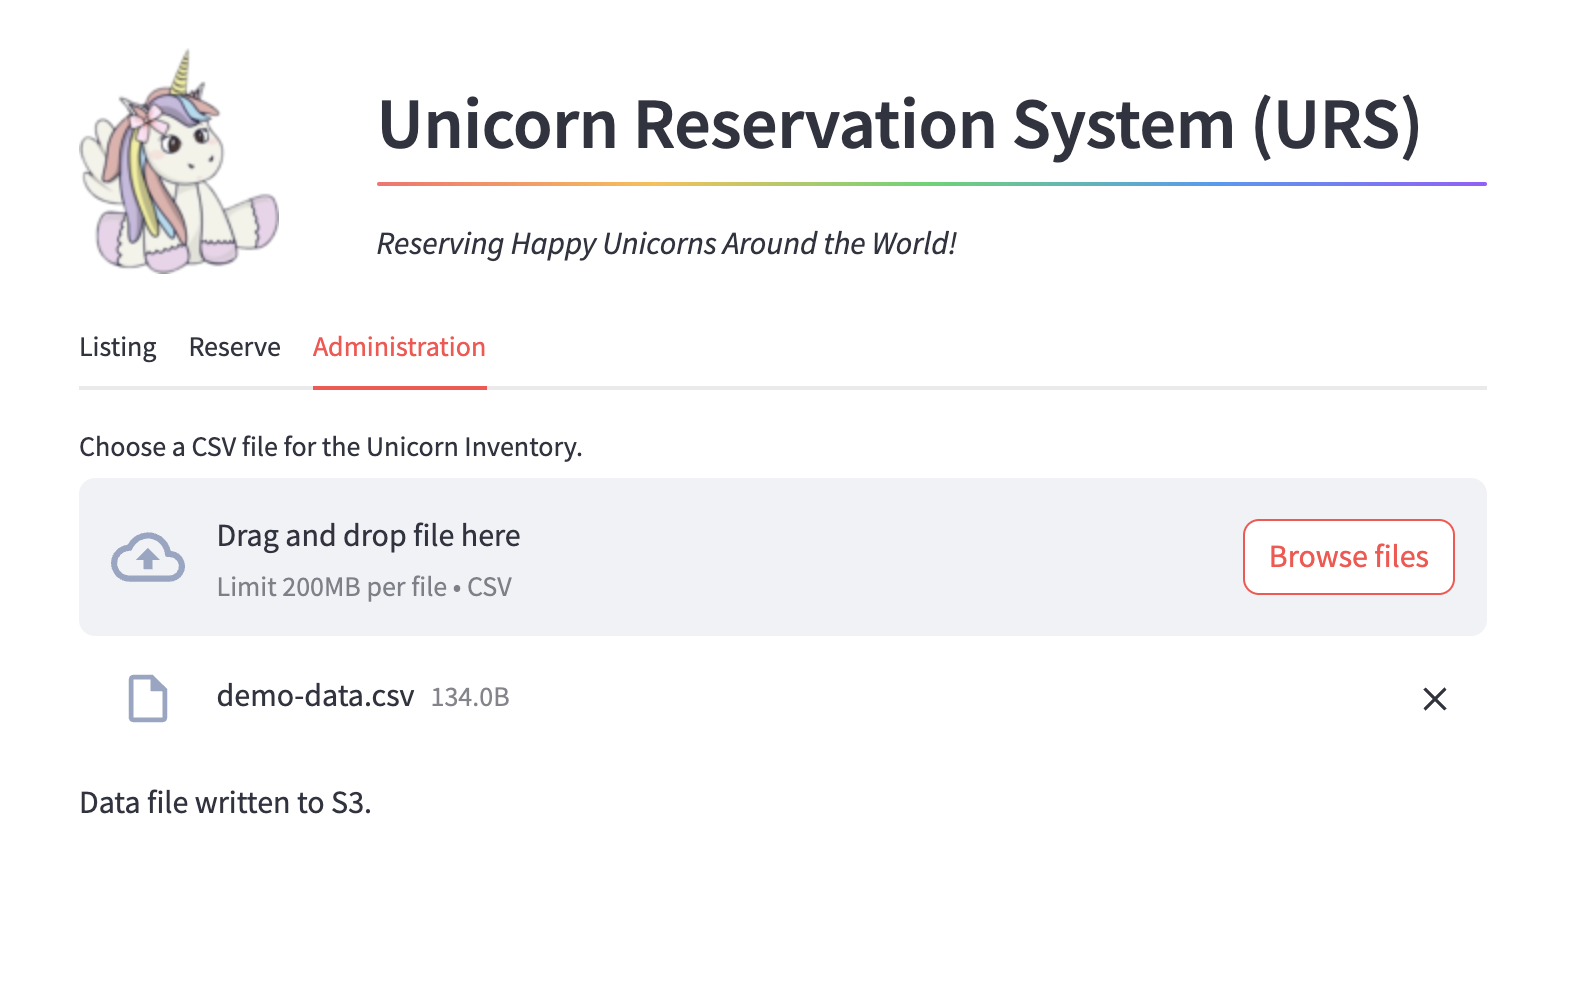
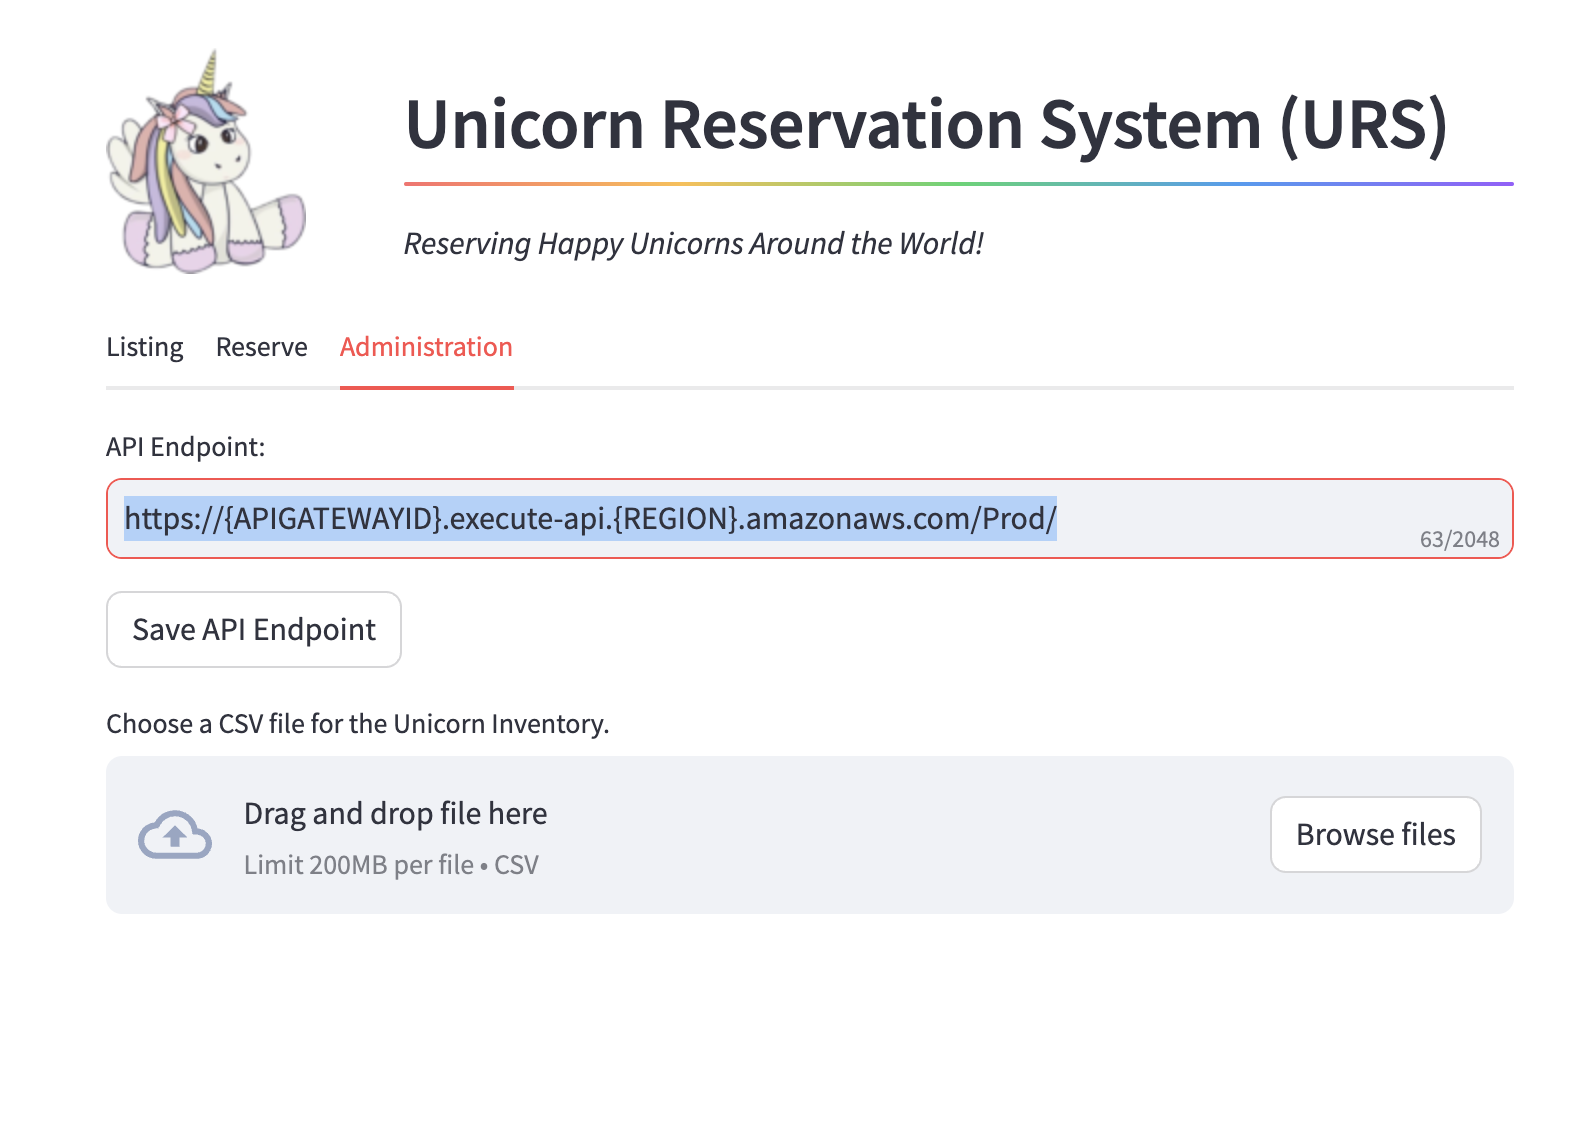
Added auto handling of locations, easier UI config.

diff --git a/python-test-samples/serverless-test-workshop/pre-test-implementation/demo-app/urs-ui.py b/python-test-samples/serverless-test-workshop/pre-test-implementation/demo-app/urs-ui.py
@@ -45,13 +45,18 @@ def get_inventory(api_endpoint_url: str, fetch_loc: str, available_only = False)
     :param: available_only - boolean, if true, returns only available unicorns
     :return: List of unicorn (dictionaries)
     """
-    inventory_url = f"{api_endpoint_url}/list/{fetch_loc}"
-    if available_only:
-        inventory_url = inventory_url + "?available=True"
+    try:
+        inventory_url = f"{api_endpoint_url}/list/{fetch_loc}"
+        if available_only:
+            inventory_url = inventory_url + "?available=True"
 
-    # TODO: Pagination
-    response = requests.get(inventory_url, timeout=120)
-    return response.json()["unicorn_list"]
+        # TODO: Pagination
+        response = requests.get(inventory_url, timeout=120)
+        return response.json()["unicorn_list"]
+    except Exception as err:
+        print(err)
+        st.write("No Unicorns Found.")
+        return []
 
 def reserve_unicorn(api_endpoint_url: str, unicorn_name: str, unicorn_reserve_for : str) -> bool:
     """
@@ -66,11 +71,30 @@ def reserve_unicorn(api_endpoint_url: str, unicorn_name: str, unicorn_reserve_fo
     response = requests.post(inventory_url, timeout=120, data=post_payload)
     return response.ok
 
-# Retrieve Application Settings
-with open("config.json","r",encoding="utf-8") as f:
-    app_config = json.load(f)
-api_endpoint = app_config["api_endpoint"]
-location_list = app_config["location_list"]
+def get_locations(api_endpoint_url: str) -> list:
+    """
+    Get the list of unicorn locations
+    :param: api_endpoint_url - the endpoint of the API Gateway
+    :return: Array of locations
+    """
+    try:    
+        location_list_url = f"{api_endpoint_url}/locations"
+        response = requests.get(location_list_url, timeout=120)
+        return response.json()["locations"]
+    except Exception as err:
+        print(err)
+        return []
+
+# Retrieve Application Endpoint
+if os.path.isfile("config.json"):
+    with open("config.json","r",encoding="utf-8") as f:
+        app_config = json.load(f)
+    api_endpoint = app_config["api_endpoint"]
+
+else:
+    api_endpoint = "https://{APIGATEWAYID}.execute-api.{REGION}.amazonaws.com/Prod/"
+
+location_list = get_locations(api_endpoint)
 
 # Generate the Application Title
 col1, col2 = st.columns([1, 4])
@@ -104,6 +128,17 @@ with reserve_tab:
 
 # Administration Tab
 with admin_tab:
+    # Api Gateway Setup
+    new_api_endpoint = st.text_input("API Endpoint:", 
+                  value=api_endpoint, 
+                  max_chars=2048
+    )
+    if st.button("Save API Endpoint"):
+        endpoint_json = {"api_endpoint": new_api_endpoint}
+        with open("config.json","w",encoding="utf-8") as out_file:
+            json.dump(endpoint_json, out_file)
+            st.write("Configuration saved, refresh browser to take effect.")
+    
     # File picker for uploading to the unicorn inventory
     uploaded_file = st.file_uploader("Choose a CSV file for the Unicorn Inventory.", type=["csv"])
     if uploaded_file is not None:

diff --git a/python-test-samples/serverless-test-workshop/pre-test-implementation/src/GetLocations/app.py b/python-test-samples/serverless-test-workshop/pre-test-implementation/src/GetLocations/app.py
@@ -2,25 +2,21 @@
 # Copyright Amazon.com, Inc. or its affiliates. All Rights Reserved.
 # SPDX-License-Identifier: MIT-0
 #
-# Lambda Function to reserve a Unicorn
+# Lambda Function to retrieve the list of Locations
 # The DynamoDB Table used is passed as an environment variable "DYNAMODB_TABLE_NAME"
 # Logic:
-# Given unicorn (Unicorn Name) and (reserved_for) in the body payload
-# Verify the Unicorn is available, if not return error status
-# Update status to RESERVED
+# Retrieve and return the DynamoDB element "LOCATION#LIST"
 """
 
 from os import environ
-import urllib
+import json
 import boto3
-
 
 from aws_xray_sdk.core import patch_all
 
 from aws_lambda_powertools.utilities.data_classes import APIGatewayProxyEvent
 from aws_lambda_powertools.utilities.typing import LambdaContext
 from aws_lambda_powertools.utilities.validation import validator
-
 
 from schemas import OUTPUT_SCHEMA
 patch_all()
@@ -38,35 +34,16 @@ def lambda_handler(event: APIGatewayProxyEvent, context: LambdaContext) -> dict:
     dynamodb_resource = boto3.resource("dynamodb")
     dynamodb_table = dynamodb_resource.Table(dynamodb_table_name)
 
-    post_payload = {}
-    for item in event["body"].split("&"):
-        post_payload[item.split("=")[0]] = urllib.parse.unquote_plus(item.split("=")[1])
-
-    unicorn_to_checkout = post_payload["unicorn"]
-    checkout_to_name = post_payload["reserved_for"]
-
    # Creating the DynamoDB Table Resource
-    response = dynamodb_table.get_item( Key={"PK": unicorn_to_checkout})
-    if "Item" not in response or response["Item"]["STATUS"] != "AVAILABLE":
+    response = dynamodb_table.get_item( Key={"PK": "LOCATION#LIST"})
+    if "Item" not in response:
         status_code = 400
-        body_payload = f"{unicorn_to_checkout} Not Available"
+        body_payload = {"locations":[]}
     else:
-        response = dynamodb_table.update_item(
-                Key={"PK": unicorn_to_checkout},
-                UpdateExpression="SET #s = :val1, #r = :val2",
-                ExpressionAttributeValues={
-                    ":val1": "RESERVED",
-                    ":val2": checkout_to_name
-                },
-                ExpressionAttributeNames={
-                    "#s":"STATUS",
-                    "#r":"RES_BY"
-                }
-            )
         status_code = 200
-        body_payload = "OK"
+        body_payload = {"locations": response["Item"]["LOCATIONS"]}
         
     return {
         "statusCode": status_code,
-        "body": body_payload
+        "body": json.dumps(body_payload)
     }

diff --git a/python-test-samples/serverless-test-workshop/pre-test-implementation/src/InventoryProcessing/app.py b/python-test-samples/serverless-test-workshop/pre-test-implementation/src/InventoryProcessing/app.py
@@ -53,6 +53,7 @@ def lambda_handler(event: S3Event, context: LambdaContext) -> dict:
     data = s3_client.get_object(Bucket=bucket, Key=key)
     contents = data['Body'].read().decode()
     count = 0
+    location_set = set()
     for entry in contents.split("\n"):
         print(f"Add {entry}")
         if "Unicorn" not in entry:
@@ -66,7 +67,19 @@ def lambda_handler(event: S3Event, context: LambdaContext) -> dict:
                 }
             )
             status_code = response['ResponseMetadata']['HTTPStatusCode']
+            location_set.add(unicorn_location)
             count += 1
+    
+    # Post a list of locations for the pick list
+    location_list = [x for x in sorted(location_set)]
+    response = dynamodb_table.put_item(
+        Item={
+            'PK': "LOCATION#LIST",
+            'LOCATIONS': location_list
+        }
+    )
+    status_code = response['ResponseMetadata']['HTTPStatusCode']
+
 
     return {
         "statusCode": status_code,

diff --git a/python-test-samples/serverless-test-workshop/pre-test-implementation/src/GetLocations/schemas.py b/python-test-samples/serverless-test-workshop/pre-test-implementation/src/GetLocations/schemas.py
@@ -1,0 +1,27 @@
+# Copyright Amazon.com, Inc. or its affiliates. All Rights Reserved.
+# SPDX-License-Identifier: MIT-0
+
+OUTPUT_SCHEMA = {
+    "$schema": "http://json-schema.org/draft-07/schema",
+    "$id": "http://example.com/example.json",
+    "type": "object",
+    "title": "Sample Output schema",
+    "description": "The root schema comprises the entire JSON document of the Return Schema.",
+    "examples": [{"statusCode": 200, "body": "OK"}],
+    "required": ["statusCode", "body"],
+    "properties": {
+        "statusCode": {
+            "$id": "#/properties/statusCode",
+            "type": "integer",
+            "title": "HTTP Status Code",
+            "examples": [200,401,500]
+        },
+        "body": {
+            "$id": "#/properties/body",
+            "type": "string",
+            "title": "The response message",
+            "examples": ["OK","Error"],
+            "maxLength": 256,
+        }
+    },
+}

diff --git a/python-test-samples/serverless-test-workshop/pre-test-implementation/README.md b/python-test-samples/serverless-test-workshop/pre-test-implementation/README.md
@@ -35,11 +35,11 @@ The architecture is as follows:
 2. An Amazon API Gateway serves as the host for the back-end API calls, routing to Lambda functions based on the specific endpoint.
 3. A Lambda function will query the Amazon DynamoDB Table [4] that stores the Unicorn Inventory.
 4. An Amazon DynamoDB Table stores the list of Unicorns, including the Unicorn Name, Location, Reservation Status, and whom the unicorn is reserved for.
-5. A Lambda function handles the reservation of a Unicorn
-6. A Lambda function produces a signed URL for a user to upload a CSV file.
-7. A user can upload a CSV file to an S3 Bucket [8].
-8. Uploading a CSV file to the S3 Bucket triggers a Lambda Function [9].
-9. A Lambda function reads the CSV file in S3 and populates the DynamoDB Table [4].
+5. A Lambda function returns the list of potential locations for Unicorns.
+6. A Lambda function handles the reservation of a Unicorn
+7. A Lambda function produces a signed URL for a user to upload a CSV file.
+8. A user can upload an inventory CSV file to an S3 Bucket.  Uploading a CSV file to the S3 Bucket triggers a Lambda Function [9].
+9.  A Lambda function reads the CSV file in S3 and populates the DynamoDB Table [4].
 
 [Top](#contents)
 
@@ -74,15 +74,15 @@ The project Makefile contains helper commands for working with the project:
 
 There is a demo User Interface provided with this project, which will help with using the backend services.
 To use this UI:
-1. Copy `demo-app/config.json.sample` to `demo-app/config.json`
-2. Edit `demo-app/config.json`.  Change `api_endpoint` to the endpoint provided by CloudFormation when you deployed the stack.
-3. Execute the command `streamlit run demo-app/urs-ui.py --server.port 8080`
-4. This will open the application in a browser window.
-5. Start with the "Administration" tab.
+1. Execute the command `streamlit run demo-app/urs-ui.py --server.port 8080`
+2. This will open the application in a browser window.
+3. Start with the "Administration" tab.
 
 ![Administration Tab](_img/urs_admin.png)
 
-6. Select `Browse Files` to choose an inventory CSV file.  There is an example file provided in `demo-app\data\demo-data.csv`
+4. For the "API Endpoint" field, enter the `ApiEndpoint` from the SAM/CloudFormation output.
+5. Click "Save API Endpoint", and refresh the browser.
+6. Return to the "Administration" tab, and Select `Browse Files` to choose an inventory CSV file.  There is an example inventory file provided in `demo-app\data\demo-data.csv`
 7. Once processed, refresh the browser, and change to the "Reservation" tab.  Select a location, a Unicorn, and type in a name for the reservation.  Click `Reserve`.
 
 ![Reserve Tab](_img/urs_reserve.png)
@@ -100,6 +100,7 @@ To use this UI:
 * [template.yaml](template.yaml) : SAM Template for the back-end stack.
 * [src/Checkout/app.py](src/Checkout/app.py) : Lambda Function for Unicorn Reservation API
 * [src/GetInventory/app.py](src/GetInventory/app.py): Lambda Function for Unicorn Listing API
+* [src/GetLocations/app.py](src/GetLocations/app.py): Lambda Function for Unicorn Locations API
 * [src/GetSignedUrlForInventory/app.py](src/GetSignedUrlForInventory/app.py) : Lambda Function for the inventory S3 pre-signed URL.
 * [src/InventoryProcessing/app.py](src/InventoryProcessing/app.py) : S3 Event handler for loading an inventory file from S3 to DynamoDB.
 * [demo-app/urs-ui.py](demo-app/urs-ui.py) : Demo Streamlit UI
